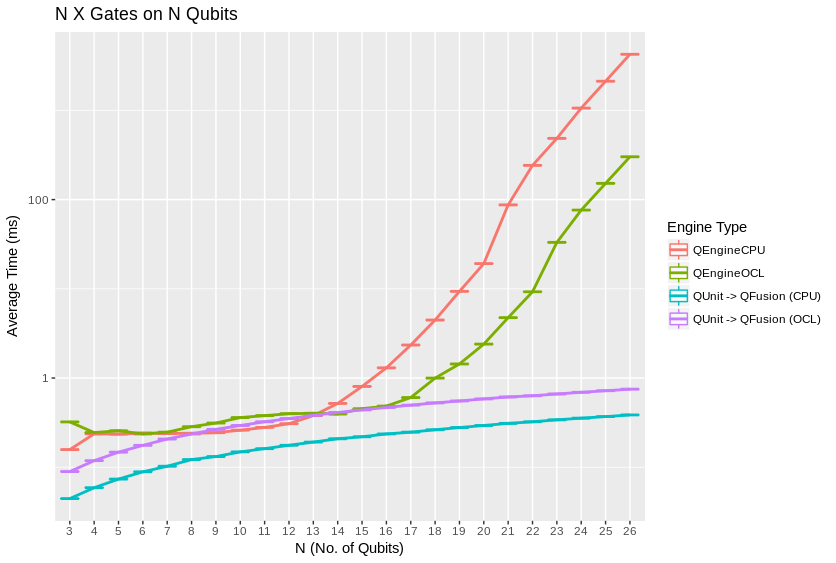
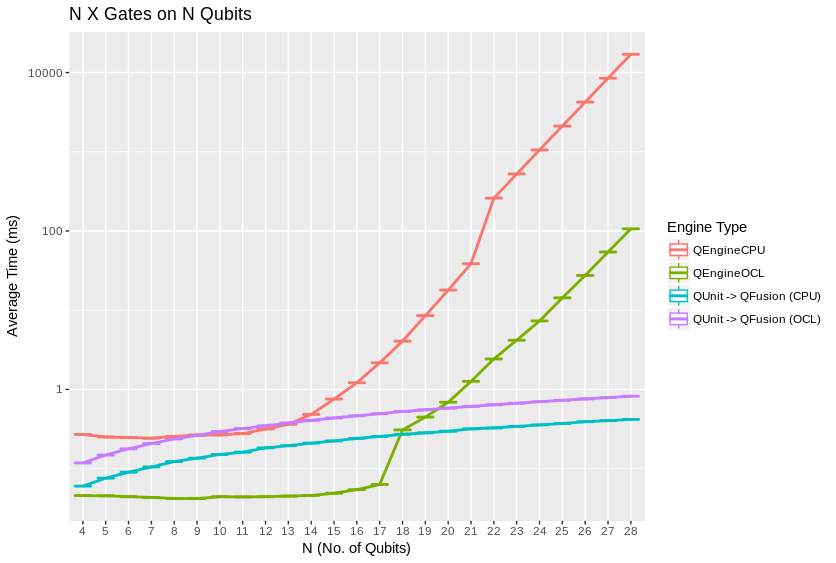
v3 release candidate benchmarks

diff --git a/docs/performance.rst b/docs/performance.rst
@@ -33,8 +33,8 @@ largely preempted analysis into CPU efficiencies and algorithmic
 optimizations.  There are some exceptions, such as IBM's `Breaking the
 49-Qubit Barrier in the Simulation of Quantum Circuits` [Pednault2017]_ paper.
 
-Qrack provides high performance in the 20-30 qubit range, as well as an
-open-source implementation in C++ suitable for utilization in a wide variety
+Qrack provides high performance up to at least the 30 qubit range, particularly as an
+open-source option, implemented in C++, suitable for utilization in a wide variety
 of projects.  As such, it is an ideal test-bed for establishing a set of
 benchmarks useful for comparing performance between various quantum
 simulators.
@@ -75,13 +75,13 @@ Disclaimers
 Method
 ******
 
-100 timed trials of single and parallel gates were run for each qubit count between 3 and 28 qubits. The benchmarking code is available at `https://github.com/vm6502q/qrack/blob/master/test/benchmarks.cpp <https://github.com/vm6502q/qrack/blob/master/test/benchmarks.cpp>`_, in which qubit count can be set and tests can be commented out to reduce to the relevant subset. CPU and GPU benchmarks were run on two respective systems that could represent realistic use cases for each engine type. An AWS p3.2xlarge running Ubuntu Server 18.04LTS was used for GPU benchmarks. An Alienware 17 R5 with an Intel(R) Core(TM) i7-8750H running Ubuntu 18.04LTS was used for Qrack CPU benchmarks. The test results were collected from 11/25/18 to 12/8/18. The average and quartile boundary values of each set of 100 were recorded and graphed. Grover's search to invert a black box subroutine, or "oracle," was similarly implemented for trials between 3 and 18 qubits. Grover's algorithm was iterated an optimal number of times, vs. qubit count, to maximize probability on a half cycle of the algorithm's period, being :math:`floor\left[\frac{\pi}{4asin\left(1/\sqrt{2^N}\right)}\right]` iterations for :math:`N` qubits.
+100 timed trials of single and parallel gates were run for each qubit count between 4 and 28 qubits. The benchmarking code is available at `https://github.com/vm6502q/qrack/blob/master/test/benchmarks.cpp <https://github.com/vm6502q/qrack/blob/master/test/benchmarks.cpp>`_, in which qubit count can be set and tests can be commented out to reduce to the relevant subset. CPU and GPU benchmarks were run on two respective systems that could represent realistic use cases for each engine type. An AWS p3.2xlarge running Ubuntu Server 18.04LTS was used for GPU benchmarks. An Alienware 17 R5 with an Intel(R) Core(TM) i7-8750H running Ubuntu 18.04LTS was used for Qrack CPU benchmarks. These test results were collected starting on the night of December 19th, 2018 into the morning of December 20th. The average and quartile boundary values of each set of 100 were recorded and graphed. Grover's search to invert a black box subroutine, or "oracle," was similarly implemented for trials between 4 and 20 qubits, for QEngineOCL with and without QUnit and QFusion layers. Grover's algorithm was iterated an optimal number of times, vs. qubit count, to maximize probability on a half cycle of the algorithm's period, being :math:`floor\left[\frac{\pi}{4asin\left(1/\sqrt{2^N}\right)}\right]` iterations for :math:`N` qubits.
 
-A quantum fourier transform was run for 100 trials between 3 and 26 qubits on the GPU engine types. ProjectQ and QCGPU were also benchmarked for this test, on an AWS p3.2xlarge running Ubuntu Server 18.04LTS, with the benchmarking code provided by QCGPU, accessed from its Github repository on 12/1/18, in Python 3. The benchmarking script from QCGPU iterates at random between the engine options. 200 total trials were run for the set of QCGPU and ProjectQ, selected by approximately equal probability random chance in each of the 200 iterations.
+A quantum Fourier transform was run for 100 trials between 4 and 28 qubits on the GPU engine types. ProjectQ and QCGPU were also benchmarked for this test, on an AWS p3.2xlarge running Ubuntu Server 18.04LTS, with the benchmarking code provided by QCGPU, accessed from its Github repository on 12/1/18, in Python 3. The benchmarking script available from QCGPU iterates at random between the engine options, but it was slightly modified to alternate between trials of ProjectQ and QCGPU, to get exactly 100 samples apiece per qubit count.
 
-QFT iterations were "chained" in a unitary manner starting from the |0> permutation state, such that every other step entangled and unentangled the full set of qubits. This is a representative test of Qrack::QUnit performance, because it varies largely with degree of representational entanglement. QUnit explicitly separates the representation of qubit subsystems when it can, such that performance differs greatly between entirely separable and entirely entangled cases, hence we need to show best and worst cases. Separability considerations do not affect maximally entangled representations, as are all other simulators tested here, (though ProjectQ includes a compilation layer on top of its default simulator). 
+QFT iterations were "chained" in a unitary manner starting from the |0> permutation state, such that every other step entangled and unentangled the full set of qubits. This is a representative test of Qrack::QUnit performance, because it varies largely with degree of representational entanglement. QUnit explicitly separates the representation of qubit subsystems when it can, such that performance differs greatly between entirely separable and entirely entangled cases, hence we need to show representative cases at both extremes. Separability considerations do not affect maximally entangled representations, as are all other simulators tested here, (though ProjectQ includes a compilation layer on top of its default simulator). 
 
-Heap profiling was carried out with Valgrind Massif. Heap sampling was limited but ultimately sufficient to show statistical confidence.
+Heap usage was established as very closely matching theoretical in eariler benchmarks, and this has not fundamentally changed. Heap profiling was carried out with Valgrind Massif. Heap sampling was limited but ultimately sufficient to show statistical confidence.
 
 Results
 *******
@@ -98,50 +98,50 @@ QEngineCPU and QEngineOCL can perform many identical gates in parallel across en
 
 .. image:: performance/cnot_all.png
 
-Heap sampling showed high confidence adherence to theoretical expecations. Complex numbers are represented as 2 single (32-bit) or 2 double (64-bit) accuracy floating point types, for real and imaginary components. The use of double or single precision is controlled by a compilation flag. There is one complex number per permutation in a separable subsystem of qubits. QUnit explicitly separates subsystems, while QEngine maintains complex amplitudes for all :math:`2^N` permutations of :math:`N` qubits. QEngines duplicate their state vectors once during most gates for speed and simplicity where it eases implementation.
+Heap sampling showed high confidence adherence to theoretical expecations. Complex numbers are represented as 2 single (32-bit) or 2 double (64-bit) accuracy floating point types, for real and imaginary components. The use of double or single precision is controlled by a compilation flag. There is one complex number per permutation in a separable subsystem of qubits. QUnit explicitly separates subsystems, while QEngine maintains complex amplitudes for all :math:`2^N` permutations of :math:`N` qubits. QEngines duplicate their state vectors once during many gates, like arithmetic gates, for speed and simplicity where it eases implementation.
 
 .. image:: performance/qrack_ram.png
 
-QUnit explicitly separates its representation of the quantum state and may operate with much less RAM, but QEngine's RAM usage represents approximately the worst case for QUnit, of maximal entanglement.
+QUnit explicitly separates its representation of the quantum state and may operate with much less RAM, but QEngine's RAM usage represents approximately the worst case for QUnit, of maximal entanglement. OpenCL engine types attempt to use memory on the accelerator device instead of general heap when a QEngineOCL instance can fit a single copy of its state vector in a single allocation on the device, and when the total available device global memory is more than three times the size of the state vector. On many modern devices, state vectors up to about 1GB in size can be allocated directly on the accelerator device instead of using general heap. A auxiliary buffer used for normalization is half the size of the state vector, and this buffer is always allocated in general heap. 
 
-Grover's algorithm is a relatively ideal test case, in that it allows a modicum of abstraction in implementation while representing an ostensibly practical and common task for truly quantum computational hardware. For 1 expected correct function inversion result, there is a well-defined highest likelihood search iteration count on half a period of the algorithm for a given number of oracle input permutations to search. This graphs shows average time against qubit count for an optimal half period search:
+Grover's algorithm is a relatively ideal test case, in that it allows a modicum of abstraction in implementation while representing an ostensibly practical and common task for truly quantum computational hardware. For 1 expected correct function inversion result, there is a well-defined highest likelihood search iteration count on half a period of the algorithm for a given number of oracle input permutations to search. Time required to run the test for QEngineCPU up to 20 qubits became prohibitive, hence we leave its variants off the graph. However, we can establish baseline for OpenCL performance, with Grover's search, and compare the performance of a "QEngine-method" to a "QUnit-method." This graphs shows average time against qubit count for an optimal half period search:
 
 .. image:: performance/grovers.png
 
 [Broda2016]_ discusses how Grover's might be adapted in practicality to actually "search an unstructured database," or search an unstructured lookup table, and Qrack is also capable of applying Grover's search to a lookup table with its IndexedLDA, IndexedADC, and IndexedSBC methods. Benchmarks are not given for this arguably more practical application of the algorithm, because few other quantum computer simulator libraries implement it, yet.
 
-The Quantum Fourier transform (QFT) is another realistic test case. Other simulators were also tested on the QFT. QFT operations were directly "chained," starting from the |0> permutation state. Qrack::QUnit was able to recover full (or virtually full) separability of qubits at every other step of 100 iterations, oscillating between modes of the "entangled" and "separable" QUnit median trends shown in the graph.
+The quantum Fourier transform (QFT) is another realistic test case. Other simulators were also tested on the QFT. QFT operations were directly "chained," starting from the |0> permutation state. Qrack::QUnit was able to recover full (or virtually full) separability of qubits at every other step of 100 iterations, oscillating between modes of the "entangled" and "separable" QUnit median trends shown in the graph.
 
-QEngineCPU took approximately 100 seconds per 1 trial (of 100) for 22 qubits and approximately 200 seconds for a 23 qubit QFT, and testing the QEngineCPU type therefore become prohibitive, for the full range of qubits between 3 and 26. To avoid confusion in the graph, and since QEngineCPU might therefore be impractical for large QFTs, we leave both it and its QUnit/QFusion variant off the graph.
-
-For Qrack, both the amount of time the GPU was blocked for execution ("GPU Time") and the time for asynchronous gate methods to return, while work continues to run on the GPU ("Async Return") are shown. The difference between these two graphs is potentially recoverable for (light to moderate) auxiliary execution of work on the host CPU, while the GPU works asynchronously.
+QEngineCPU took approximately 100 seconds per 1 trial (of 100) for 22 qubits and approximately 200 seconds for a 23 qubit QFT, and testing the QEngineCPU type therefore become prohibitive, for the full range of qubits between 4 and 28. To avoid confusion in the graph, and since QEngineCPU might therefore be impractical for large QFTs, we leave both it and its QUnit/QFusion variant off the graph.
 
 .. image:: performance/qft.png
 
-For lower numbers of qubits, QEngineOCL outperforms QCGPU. Both simulators follow an exponential trend that appears to reach a knee of faster growth. The "knee" comes at a lower number of qubits for QEngineOCL than for QCGPU, at about 18 qubits of GPU time and 21 qubits of asynchronous host dispatch versus 25 or 24 qubits for QCGPU. There is no such "knee" apparent for the QUnit -> QFusion layers on top of a QEngine type. We will analyze the comparative results in the discussion section.
+QEngineOCL generally outperforms the default simulator "backend" for ProjectQ. However, Qrack has also been wrapped as an optional backend for ProjectQ, and benchmarks for this layering of both projects will follow.
+
+For lower numbers of qubits, QEngineOCL outperforms QCGPU. Both simulators follow a trend that appears to reach a knee of faster exponential growth. The "knee" comes at a lower number of qubits for QEngineOCL than for QCGPU, at about 18 qubits, versus 25 or 24 qubits for QCGPU. There is no such "knee" apparent for the QUnit -> QFusion layers on top of a QEngine type. QUnit shows less than exponential scaling, and it ultimately overtakes the speed of QCGPU by 28 qubits. We will analyze the comparative results in the discussion section.
 
 Discussion
 **********
 
-Up to a consistent deviation at low qubit counts, speed and RAM usage is well predicted by theoretical complexity considerations of the gates, up to a factor of 2 on heap usage for duplication of the state vector.
+Up to a consistent deviation at low qubit counts, speed and RAM usage is well predicted by theoretical complexity considerations of the gates, up to about a factor of 2 on heap usage for duplication of the state vector, with additional 1/2 the size of state vector allocated by QEngineOCL for an auxiliary normalization buffer.
 
-In the comparative QFT benchmarks, the difference between QCGPU and Qrack in the "knee" in the base engine might be partially due to scalable work distribution in the OpenCL kernels. QEngineOCL is written to distribute work among an arbitrarily small number of processing elements and max work item size. Max work item size is a device-specific hardware parameter limiting how many work items may be dispatched in an OpenCL kernel call. QEngineOCL can distribute large numbers of probability amplitude transformations to small numbers of work items, incurring additional looping overhead, whereas QCGPU is written to dispatch one work item to one processing element. QCGPU requires a large enough hardware max work item size to add higher numbers of qubits, which might or not might not prove prohibitive in addressing the largest possible amount of general RAM. Additionally, Qrack normalizes its state vector at on-the-fly opportunities, to correct for float rounding error, incurring overhead costs but benefiting the accuracy of the simulation over very long strings of gate applications. QEngineOCL was also designed to support access by separate QEngineOCL instances in different threads to shared OpenCL devices, as well as out-of-order OpenCL queue execution, which might add host overhead.
+In the comparative QFT benchmarks, the difference between QCGPU and Qrack in the "knee" in the base engine might be partially due to scalable work distribution in the OpenCL kernels. QEngineOCL is written to distribute work among an arbitrarily small number of processing elements and max work item size. Max work item size is a device-specific hardware parameter limiting how many work items may be dispatched in an OpenCL kernel call. QEngineOCL can distribute large numbers of probability amplitude transformations to small numbers of work items, incurring additional looping overhead, whereas QCGPU is written to dispatch one work item to one processing element. QCGPU requires a large enough hardware max work item size to add higher numbers of qubits, which might or not might not prove prohibitive in addressing the largest possible amount of general RAM on typical GPUs. Whereas QCGPU might not be, Qrack is theoretically compatible with OpenCL devices with smaller maximum work item counts, potentially such as CPUs. Additionally, Qrack normalizes its state vector at on-the-fly opportunities, to correct for float rounding error, incurring overhead costs but benefiting the accuracy of the simulation over very long strings of gate applications. QEngineOCL was also designed to support access by separate QEngineOCL instances in different threads to shared OpenCL devices, as well as optional out-of-order OpenCL queue execution, when available, which might add host overhead.
 
 Further Work
 ************
 
 Qrack contains an experimental multiprocessor type, previously "QEngineOCLMulti" based on the algorithms developed in Intel's [QHiPSTER]_, currently replaced in favor of the simpler QUnitMulti type, which dispatches different separable subsystems to different processors. Current and previous generation multiprocessor types fail to outperform the single processor QEngineOCL. We include it in the current release to help the open source community realize a practical multiprocessor implementation in the context of Qrack.
 
-Qrack has been successfully run on multiple processors at once, and even on clusters, but not with practical performance for real application; a good next step is to redesign the multiprocessor engine type(s) to actually outperform the single device engine. Also, CPU "software" implementation parallelism relies on certain potentially expensive standard library functionality, like lambda expressions parallel "futures," and might still be optimized. Further, there is still opportunity for better explicit qubit subsystem separation in QUnit.
+Qrack has been successfully run on multiple processors at once, and even on clusters, but not with practical performance for real application; a good next step is to redesign the multiprocessor engine type(s) to actually outperform the single device engine. Also, CPU "software" implementation parallelism relies on certain potentially expensive standard library functionality, like lambda expressions and parallel "futures," and might still be optimized. Further, there is still opportunity for better explicit qubit subsystem separation in QUnit.
 
 With a new generation of "VPU" processors coming in 2019, (for visual inference,) it might be possible to co-opt VPU capabilities for inference of raw state vector features, such as Schmidt separability, to improve the performance of QUnit. The authors of Qrack have just started looking at this hardware for this purpose.
 
-We will maintain systematic comparisons to published benchmarks of quantum computer simulation standard libraries, as they arise.
+We will maintain systematic comparisons to published benchmarks of quantum computer simulation standard libraries, as they arise. Comparative benchmarks will be established for Grover's search, in early 2019.
 
 Conclusion
 **********
 
-Per [Pednault2017]_, explicitly separated subsystems of qubits in QUnit have a significant RAM and speed edge in many cases over the "Schrödinger algorithm" of QEngineCPU and QEngineOCL. One of Qrack's greatest new optimizations to either general algorithm is constant complexity or "free" scaling of bitwise parallelism in entangled subsystems, compared to linear complexity scaling without this optimization. Qrack gives very efficient performance on a single node up to at least about 30 qubits, in the limit of maximal entanglement.
+Per [Pednault2017]_, explicitly separated subsystems of qubits in QUnit have a significant RAM and speed edge in many cases over the "Schrödinger algorithm" of QEngineCPU and QEngineOCL. One of Qrack's most novel optimizations is constant complexity or "free" scaling of bitwise parallelism in entangled subsystems, compared to linear complexity scaling without this optimization. Qrack gives very efficient performance on a single node up to at least about 30 qubits, up to the limit of maximal entanglement.
 
 Citations
 *********
